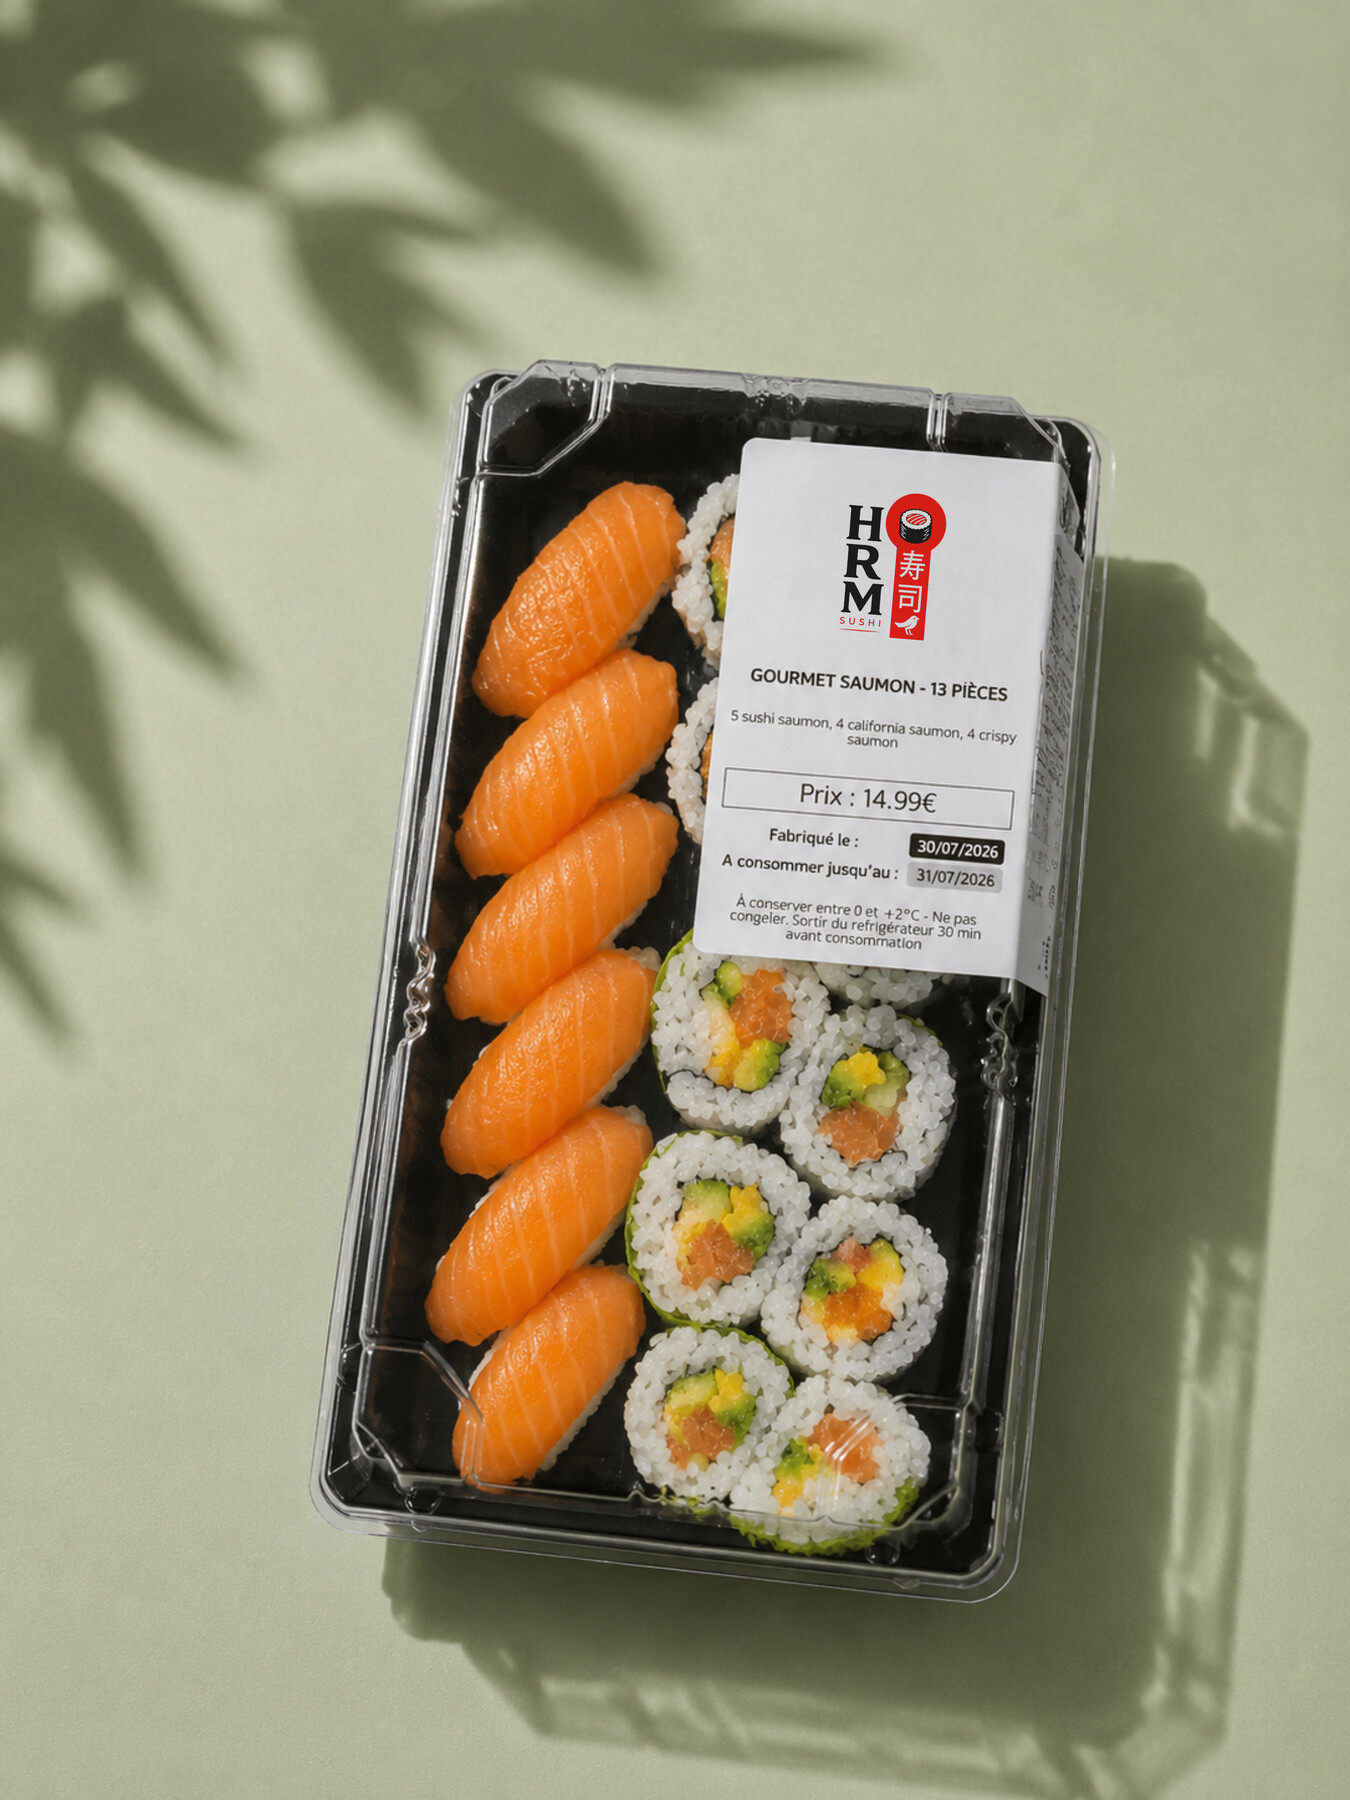
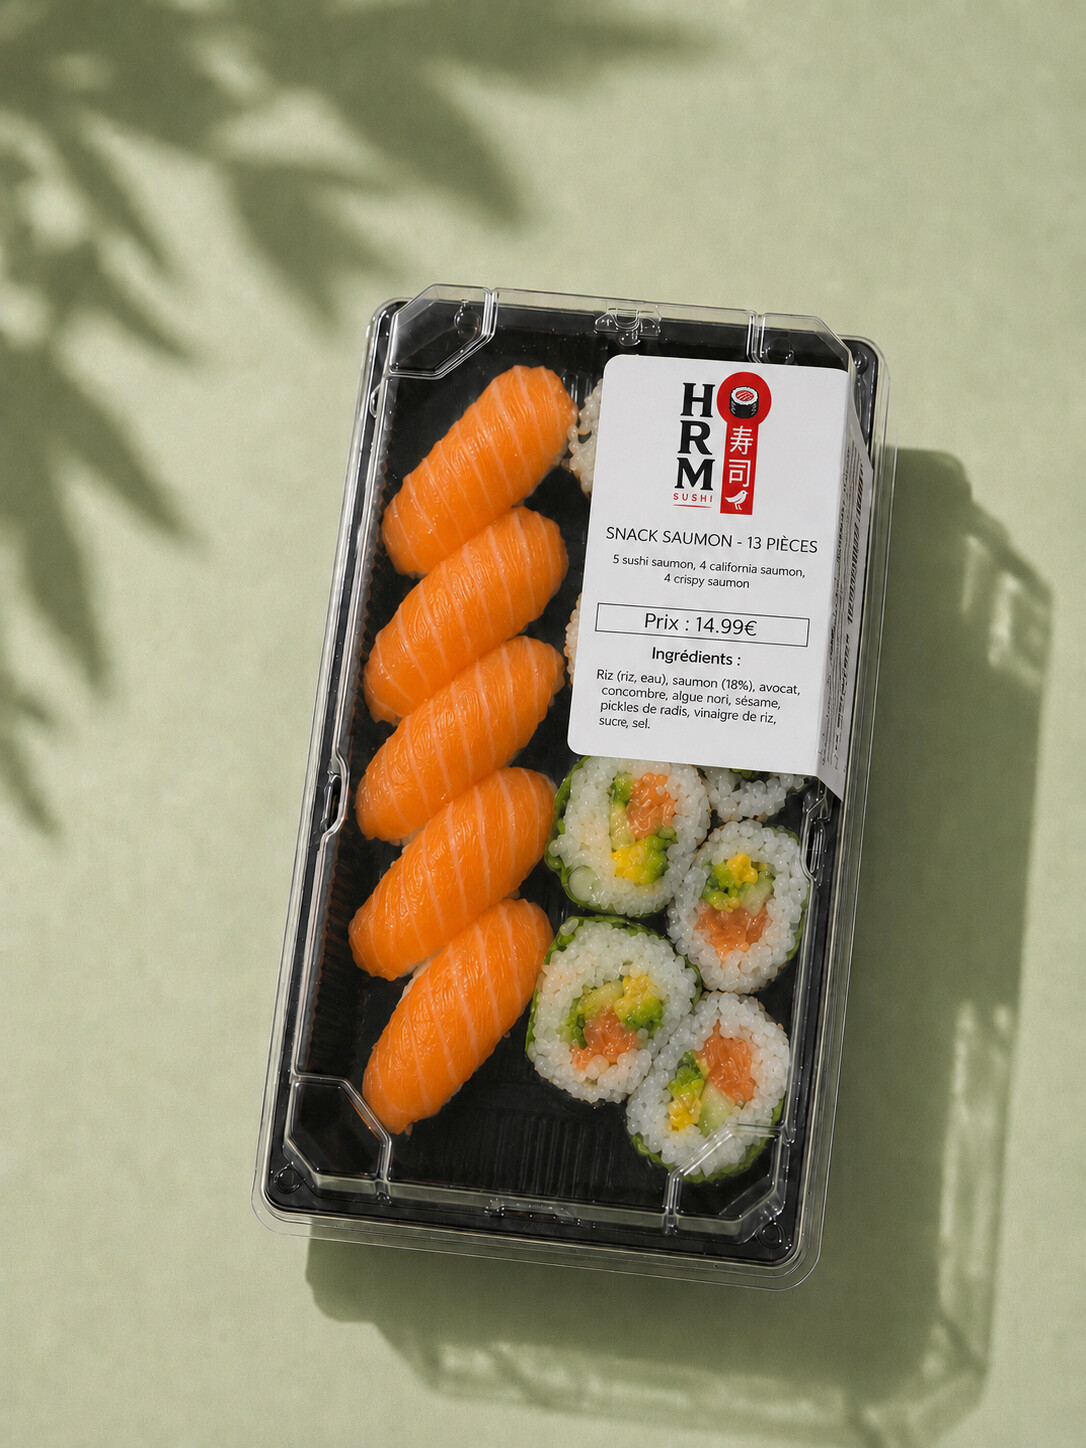
Supprime Box Mixte, ajoute photos pour La Box du Mois et Box Gourmet, met a jour la photo de Gourmet Saumon

diff --git a/lib/menu.ts b/lib/menu.ts
@@ -47,11 +47,6 @@ export const categories: Category[] = [
           '4 sushi saumon, 4 sushi crevette, 5 maki crispy, 10 california, 10 maki thon avocat. Riz, algues, saumon, crevette, thon, avocat, concombre, oignon frit, ciboulette, sésame, sauce mayo épicée.',
       },
       {
-        name: 'Box Mixte',
-        format: '33 pièces',
-        price: '19,99 €',
-      },
-      {
         name: 'Plateau Passion',
         format: '18 pièces',
         price: '16,99 €',
@@ -70,8 +65,20 @@ export const categories: Category[] = [
       { name: 'Gourmet Saumon', format: '13 pièces', price: '14,99 €', image: '/images/produits/gourmet-saumon.jpg', composition: '5 sushi saumon, 4 california saumon, 4 crispy saumon.' },
       { name: 'Saumon Box', format: '14 pièces', price: '13,99 €', image: '/images/produits/saumon-box.jpg', composition: '4 sushi saumon, 4 california saumon, 2 maki saumon, 4 cristal avocat saumon.' },
       { name: 'Box Mix Édition', format: '22 pièces', price: '17,99 €', image: '/images/produits/box-mix-edition.jpg', composition: '3 sushi saumon laqué sésame, 3 sushi saumon, 4 california saumon, 4 cristal saumon, 4 california thon cuit mayonnaise épicée oignons frits, 4 maki avocat mangue.' },
-      { name: 'La Box du Mois', price: '9,99 €' },
-      { name: 'Box Gourmet', price: '12,99 €' },
+      {
+        name: 'La Box du Mois',
+        price: '9,99 €',
+        image: '/images/produits/la-box-du-mois.jpg',
+        composition:
+          '3 sushi saumon, 4 california thon cuit mayonnaise épicée oignons frits, 4 maki saumon, 4 maki avocat.',
+      },
+      {
+        name: 'Box Gourmet',
+        price: '12,99 €',
+        image: '/images/produits/box-gourmet.jpg',
+        composition:
+          '3 sushi saumon laqué sésame, 4 dragon saumon fromage concombre, 4 avocat mangue fromage saumon, 4 cristal poulet pané mayonnaise.',
+      },
       { name: 'Box Thon Mayo', format: '12 pièces', price: '7,99 €', image: '/images/produits/box-thon-mayo.jpg', composition: 'California thon cuit mayonnaise.' },
       {
         name: 'Box Brochettes Poulet Yakitori & Gyoza',
